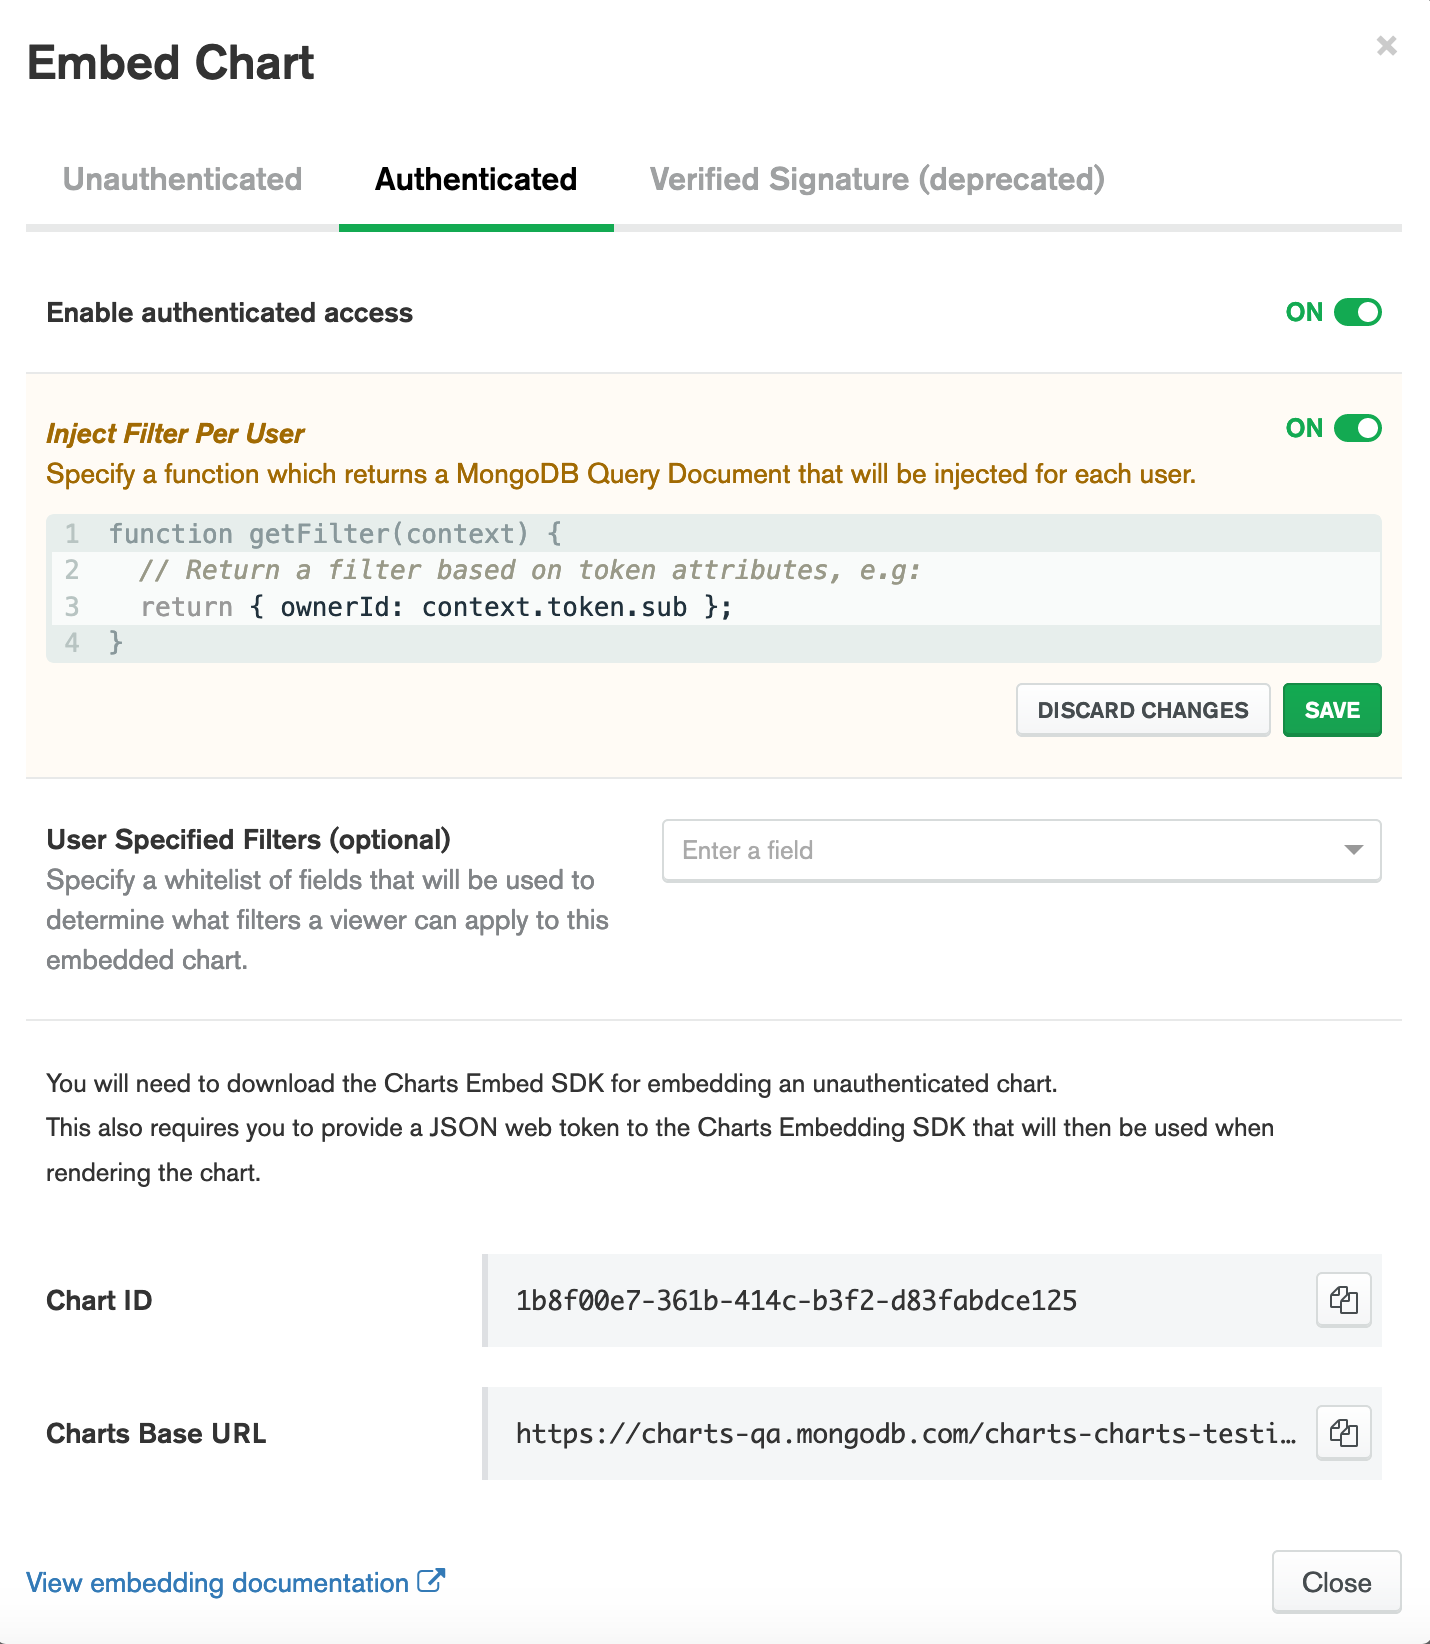
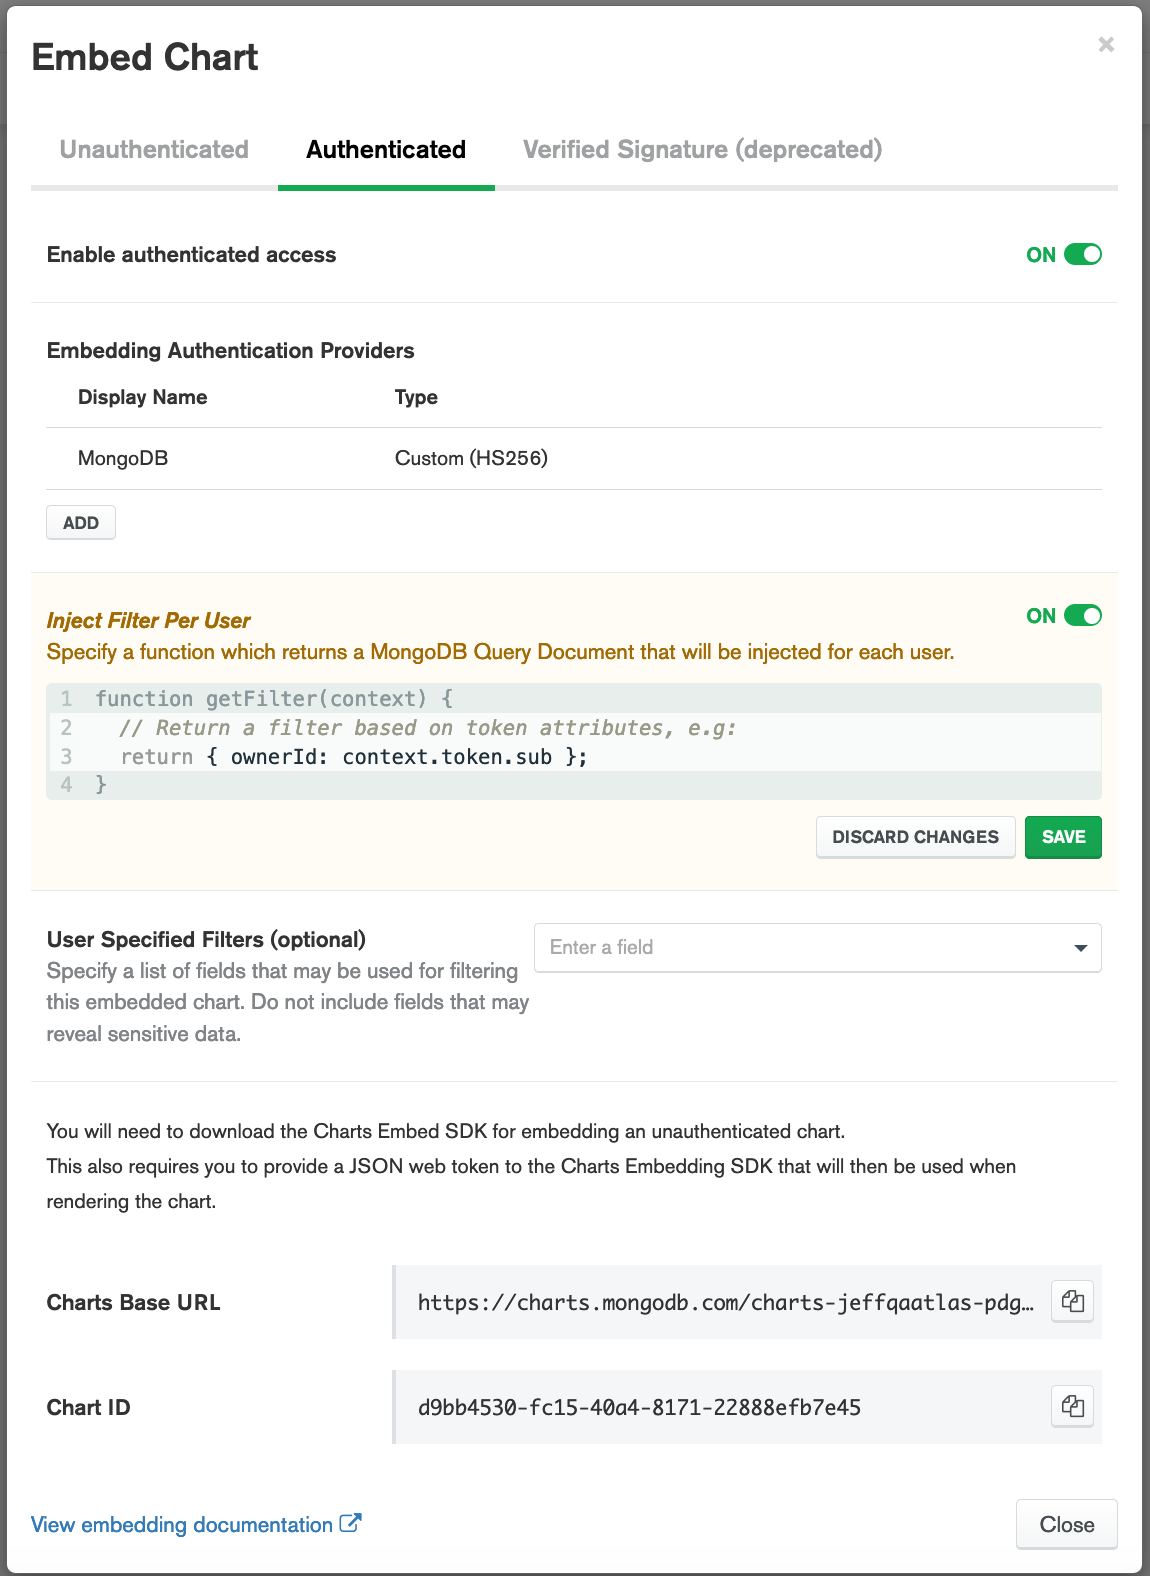
(DOCSP-11140): Swap order of base url and chart ID

diff --git a/source/includes/enable-embedding-intro.rst b/source/includes/enable-embedding-intro.rst
@@ -1,3 +1,3 @@
-Enable authenticated embedding to generate a chart ID and |charts-short|
-Base URL. You will need your chart ID and |charts-short| Base URL to 
+Enable authenticated embedding to generate a |charts-short| Base URL and
+a chart ID. You will need your |charts-short| Base URL and chart ID to
 display your chart on a web page.
